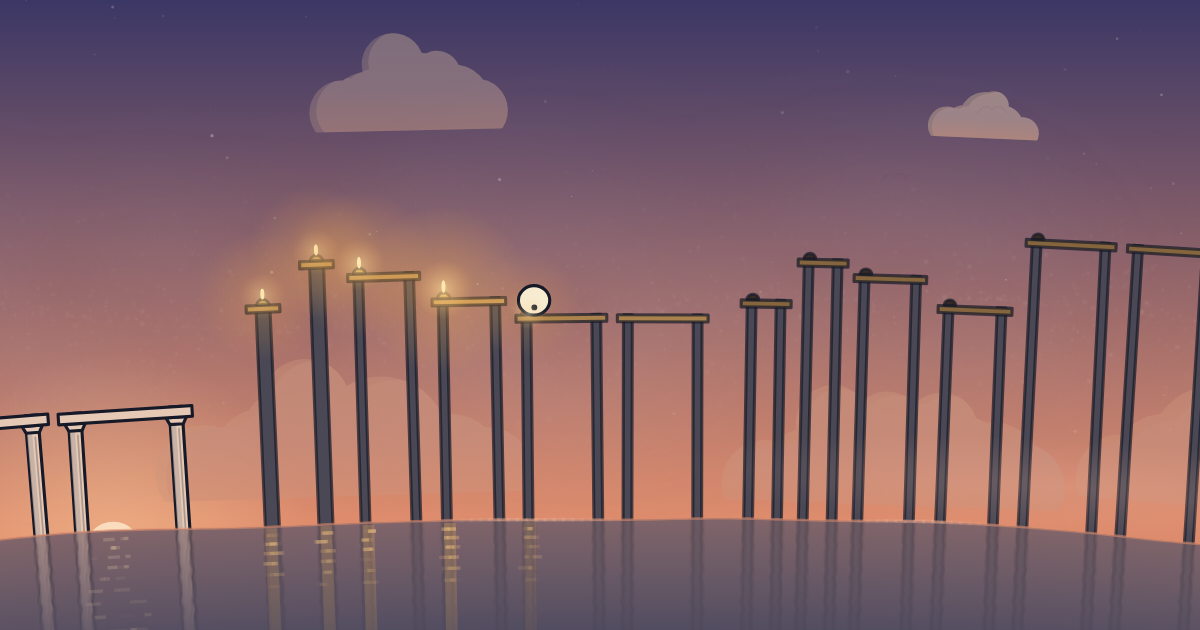
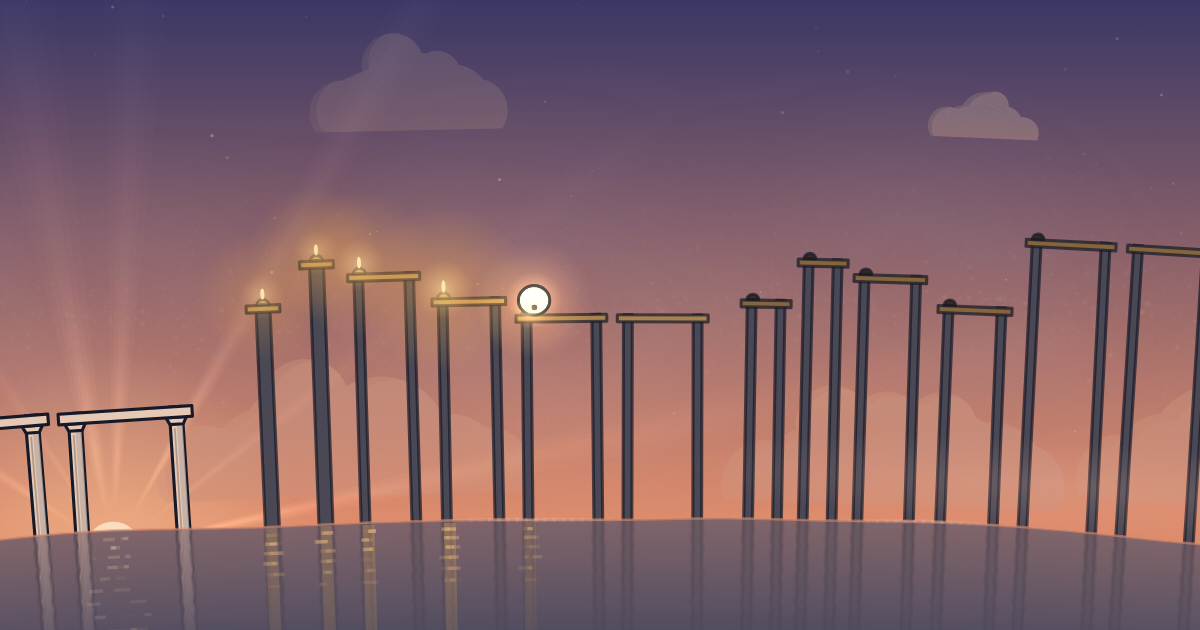
craft(gymnopedie): rays from the low sun; the show audited in motion
Soft, feathered rays fan from the low sun at dawn and through the
afternoon into the sunset, held back under the shower's cloud so they
come as it clears. The whole period was audited at ten frames a second
for anything that jumps against the motion round it; nothing does. The
share card is redrawn at its still. Check: rays only while the sun is
low and up.

diff --git a/apps/rube/src/shows/versions/gymnopedie/orbit/scene.ts b/apps/rube/src/shows/versions/gymnopedie/orbit/scene.ts
@@ -283,6 +283,11 @@ export const sky = scenery<null>('sky', (p, _s, c) => {
   const afar = smooth(v.wide, 0.1, 0.55)
   if (afar > 0.01) inSpace(p, c, afar)
 
+  // Rays from the low sun, at dawn and through the afternoon into the sunset; not under the shower's cloud, so they
+  // come as it clears.
+  const rays = raysAt(c.t) * near
+  if (rays > 0.01 && sun.light > 0.01) sunRays(ctx, c, v, sun, rays)
+
   // The bow, opposite the sun, as the shower clears.
   // Close: drawn back over the planet the bow would only be a stripe across the sky.
   const bow = bowAt(c.t) * near * (1 - smooth(v.cells, 9, 17))
@@ -361,6 +366,57 @@ function inSpace(p: p5, c: PieceCtx, light: number): void {
     ctx.beginPath()
     ctx.arc(x * mr, y * mr, r * mr, 0, Math.PI * 2)
     ctx.fill()
+  }
+  ctx.restore()
+}
+
+/** How much the low sun's rays show at `t`, 0 to 1. */
+export function raysAt(t: number): number {
+  const a = Math.abs(sunAngle(t))
+  if (wrap(t) > 230) return 0
+  return smooth(a, 0.8, 1.2) * (1 - smooth(a, 1.68, 1.84)) * (1 - overcastAt(t))
+}
+
+/**
+ * Crepuscular rays: soft wedges of warm light fanning from the sun across the sky, each breathing slowly, with
+ * darker gaps between; behind the stones, which stand in front of them.
+ */
+function sunRays(ctx: Ctx2D, c: PieceCtx, v: View, sun: Body, light: number): void {
+  const W = ctx.canvas.width
+  const H = ctx.canvas.height
+  const m = ctx.getTransform()
+  let low = 0
+  for (let i = 0; i <= 12; i++) low = Math.max(low, onCanvas(ctx, c.k, ...polar(v.u0 + ((v.u1 - v.u0) * i) / 12, 0), m)[1])
+  ctx.save()
+  ctx.setTransform(1, 0, 0, 1, 0, 0)
+  ctx.beginPath()
+  ctx.rect(0, 0, W, Math.min(H, low))
+  ctx.clip()
+  ctx.globalCompositeOperation = 'lighter'
+  const reach = Math.hypot(W, H) * 1.1
+  const glow = ctx.createRadialGradient(sun.x, sun.y, H * 0.06, sun.x, sun.y, reach)
+  glow.addColorStop(0, 'rgba(255, 226, 180, 0)')
+  glow.addColorStop(0.04, 'rgba(255, 226, 180, 0.4)')
+  glow.addColorStop(0.18, 'rgba(255, 214, 166, 0.14)')
+  glow.addColorStop(0.55, 'rgba(255, 214, 166, 0.03)')
+  glow.addColorStop(1, 'rgba(255, 214, 166, 0)')
+  ctx.fillStyle = glow
+  const N = 16
+  for (let i = 0; i < N; i++) {
+    const a = (2 * Math.PI * (i + 0.6 * hash(i, 201))) / N + 0.05 * osc(c.t, 0.008, i)
+    const half = 0.025 + 0.05 * hash(i, 202)
+    const breathe = 0.5 + 0.5 * osc(c.t, 0.035 + 0.03 * hash(i, 203), i * 2.3)
+    const alpha = light * (0.035 + 0.06 * breathe) * (0.5 + 0.5 * hash(i, 204))
+    if (alpha < 0.004) continue
+    // Feathered: three wedges, each narrower, so the ray is brightest down its middle and has no edge.
+    ctx.globalAlpha = alpha
+    for (const f of [1, 0.62, 0.3]) {
+      ctx.beginPath()
+      ctx.moveTo(sun.x, sun.y)
+      ctx.arc(sun.x, sun.y, reach, a - half * f, a + half * f)
+      ctx.closePath()
+      ctx.fill()
+    }
   }
   ctx.restore()
 }

diff --git a/apps/rube/checks/gymnopedie.ts b/apps/rube/checks/gymnopedie.ts
@@ -8,7 +8,7 @@ import { show } from '../src/shows/versions/gymnopedie/orbit'
 import { BASS, BREATHS, CHORDS, GRACES, MARGIN, MELODY, NOTES, PERIOD, PIECES, loudness } from '../src/shows/versions/gymnopedie/orbit/music'
 import { LENGTH, STONES, TOUCHES, ballLocal, riding, squash, swell } from '../src/shows/versions/gymnopedie/orbit/path'
 import { breath, cellsAt } from '../src/shows/versions/gymnopedie/orbit/camera'
-import { CADENCES, bloom, cadenceFronts, lampLight, moonAngle, sunAngle } from '../src/shows/versions/gymnopedie/orbit/scene'
+import { CADENCES, bloom, cadenceFronts, lampLight, moonAngle, raysAt, sunAngle } from '../src/shows/versions/gymnopedie/orbit/scene'
 import { CARDS, TITLES_OK, titlesAt } from '../src/shows/versions/gymnopedie/orbit/titles'
 import { BANK, FIREFLY, GULLS, HEAPS, METEORS, MIST, auroraAt, bowAt, coverAt, firefliesOut, layered, mistAt, rainAt, whaleAt } from '../src/shows/versions/gymnopedie/orbit/air'
 import { skyAt } from '../src/shows/versions/gymnopedie/orbit/world'
@@ -163,6 +163,16 @@ export function checkGymnopedie(perf: Performance, version: Version, check: Chec
   }
   check('gymnopedie: the aurora is the first Gnossienne\'s, in the full night only, gone before the moon rises',
     auroraFrom > GN1.from && auroraTo < GN1.last && auroraDay === 0, `${auroraFrom.toFixed(0)}-${auroraTo.toFixed(0)}`)
+
+  let raysWrong = 0
+  let raysSeen = 0
+  for (let t = 0; t < PERIOD; t += 0.1) {
+    if (raysAt(t) <= 0) continue
+    raysSeen++
+    if (Math.abs(sunAngle(t)) < 0.8 || Math.abs(sunAngle(t)) > 1.84 || t > G1.end + 20) raysWrong++
+  }
+  check('gymnopedie: rays come from the sun only while it is low and up, at dawn and into the sunset', raysSeen > 0 && raysWrong === 0,
+    `${raysSeen} moments, ${raysWrong} wrong`)
 
   // Each piece's last note runs back along its way, and nothing else does.
   let offCue = 0

diff --git a/apps/rube/src/shows/versions/gymnopedie/GYMNOPEDIE.md b/apps/rube/src/shows/versions/gymnopedie/GYMNOPEDIE.md
@@ -109,6 +109,9 @@ The planet has weather, at depths behind the stones (`air.ts`):
   horizon's colour under them at dawn and dusk, dim and edged silver under the moon. How much of the sky is cloud
   moves through the day (`coverAt`): most of it by day, thinning at night for the stars and the Milky Way, more again
   under the moon; a cloud gathers and thins as the cover comes over its share.
+- Rays from the low sun: at dawn through the morning's mist, and through the afternoon into the sunset, soft
+  feathered wedges of warm light fanning across the sky behind the columns, each breathing slowly; held back while the
+  shower's cloud is over, so they come as it clears (`raysAt`).
 - The sun lights the colonnade from its side of the sky: each column's shade is on its west face in the morning,
   narrows to noon, and crosses to the east face through the afternoon.
 - Gulls by day, a few small flocks overtaking the ball along the colonnade, beating a while and gliding a while.
@@ -154,6 +157,12 @@ number of times in `f` of the way round, and its wind carries it a whole number 
 with the period like everything else. Anything in a layer fades towards the edge of its repeat (`inLayer`), so when the
 camera draws out wider than a repeat nothing jumps across the frame.
 
+## Motion
+
+Audited in motion as well as in stills: the whole period, ten frames a second, measured frame to frame for anything
+that jumps against the motion round it (a layer wrapping, a cloud gathering, a light coming on). Nothing does; the
+largest changes are the ball's quick hops after long notes, and the camera's.
+
 ## Checks
 
 `check:shows` (`apps/rube/checks/gymnopedie.ts`): the picker entry, the credit, the three pieces in order; the loop
@@ -166,6 +175,6 @@ loudness come round with the period; every lamp is dark until the ball lights it
 flower opens as the ball comes and closes at dawn, across the seam; every layer of the air comes round with the
 period, and a shooting star falls only on a Gnossienne's top note, at night; there is one shower, in the
 Gymnopédie, with the bow after it and gone before the first Gnossienne; the whale passes once, under the third
-Gnossienne's pond; a wave of light runs back along each piece's way from its last note, and only then; the aurora is
+Gnossienne's pond; rays come from the sun only while it is low and up; a wave of light runs back along each piece's way from its last note, and only then; the aurora is
 the first Gnossienne's, in the full night only; the sun and the moon go round
 without a jump, the seam included; the titles.
